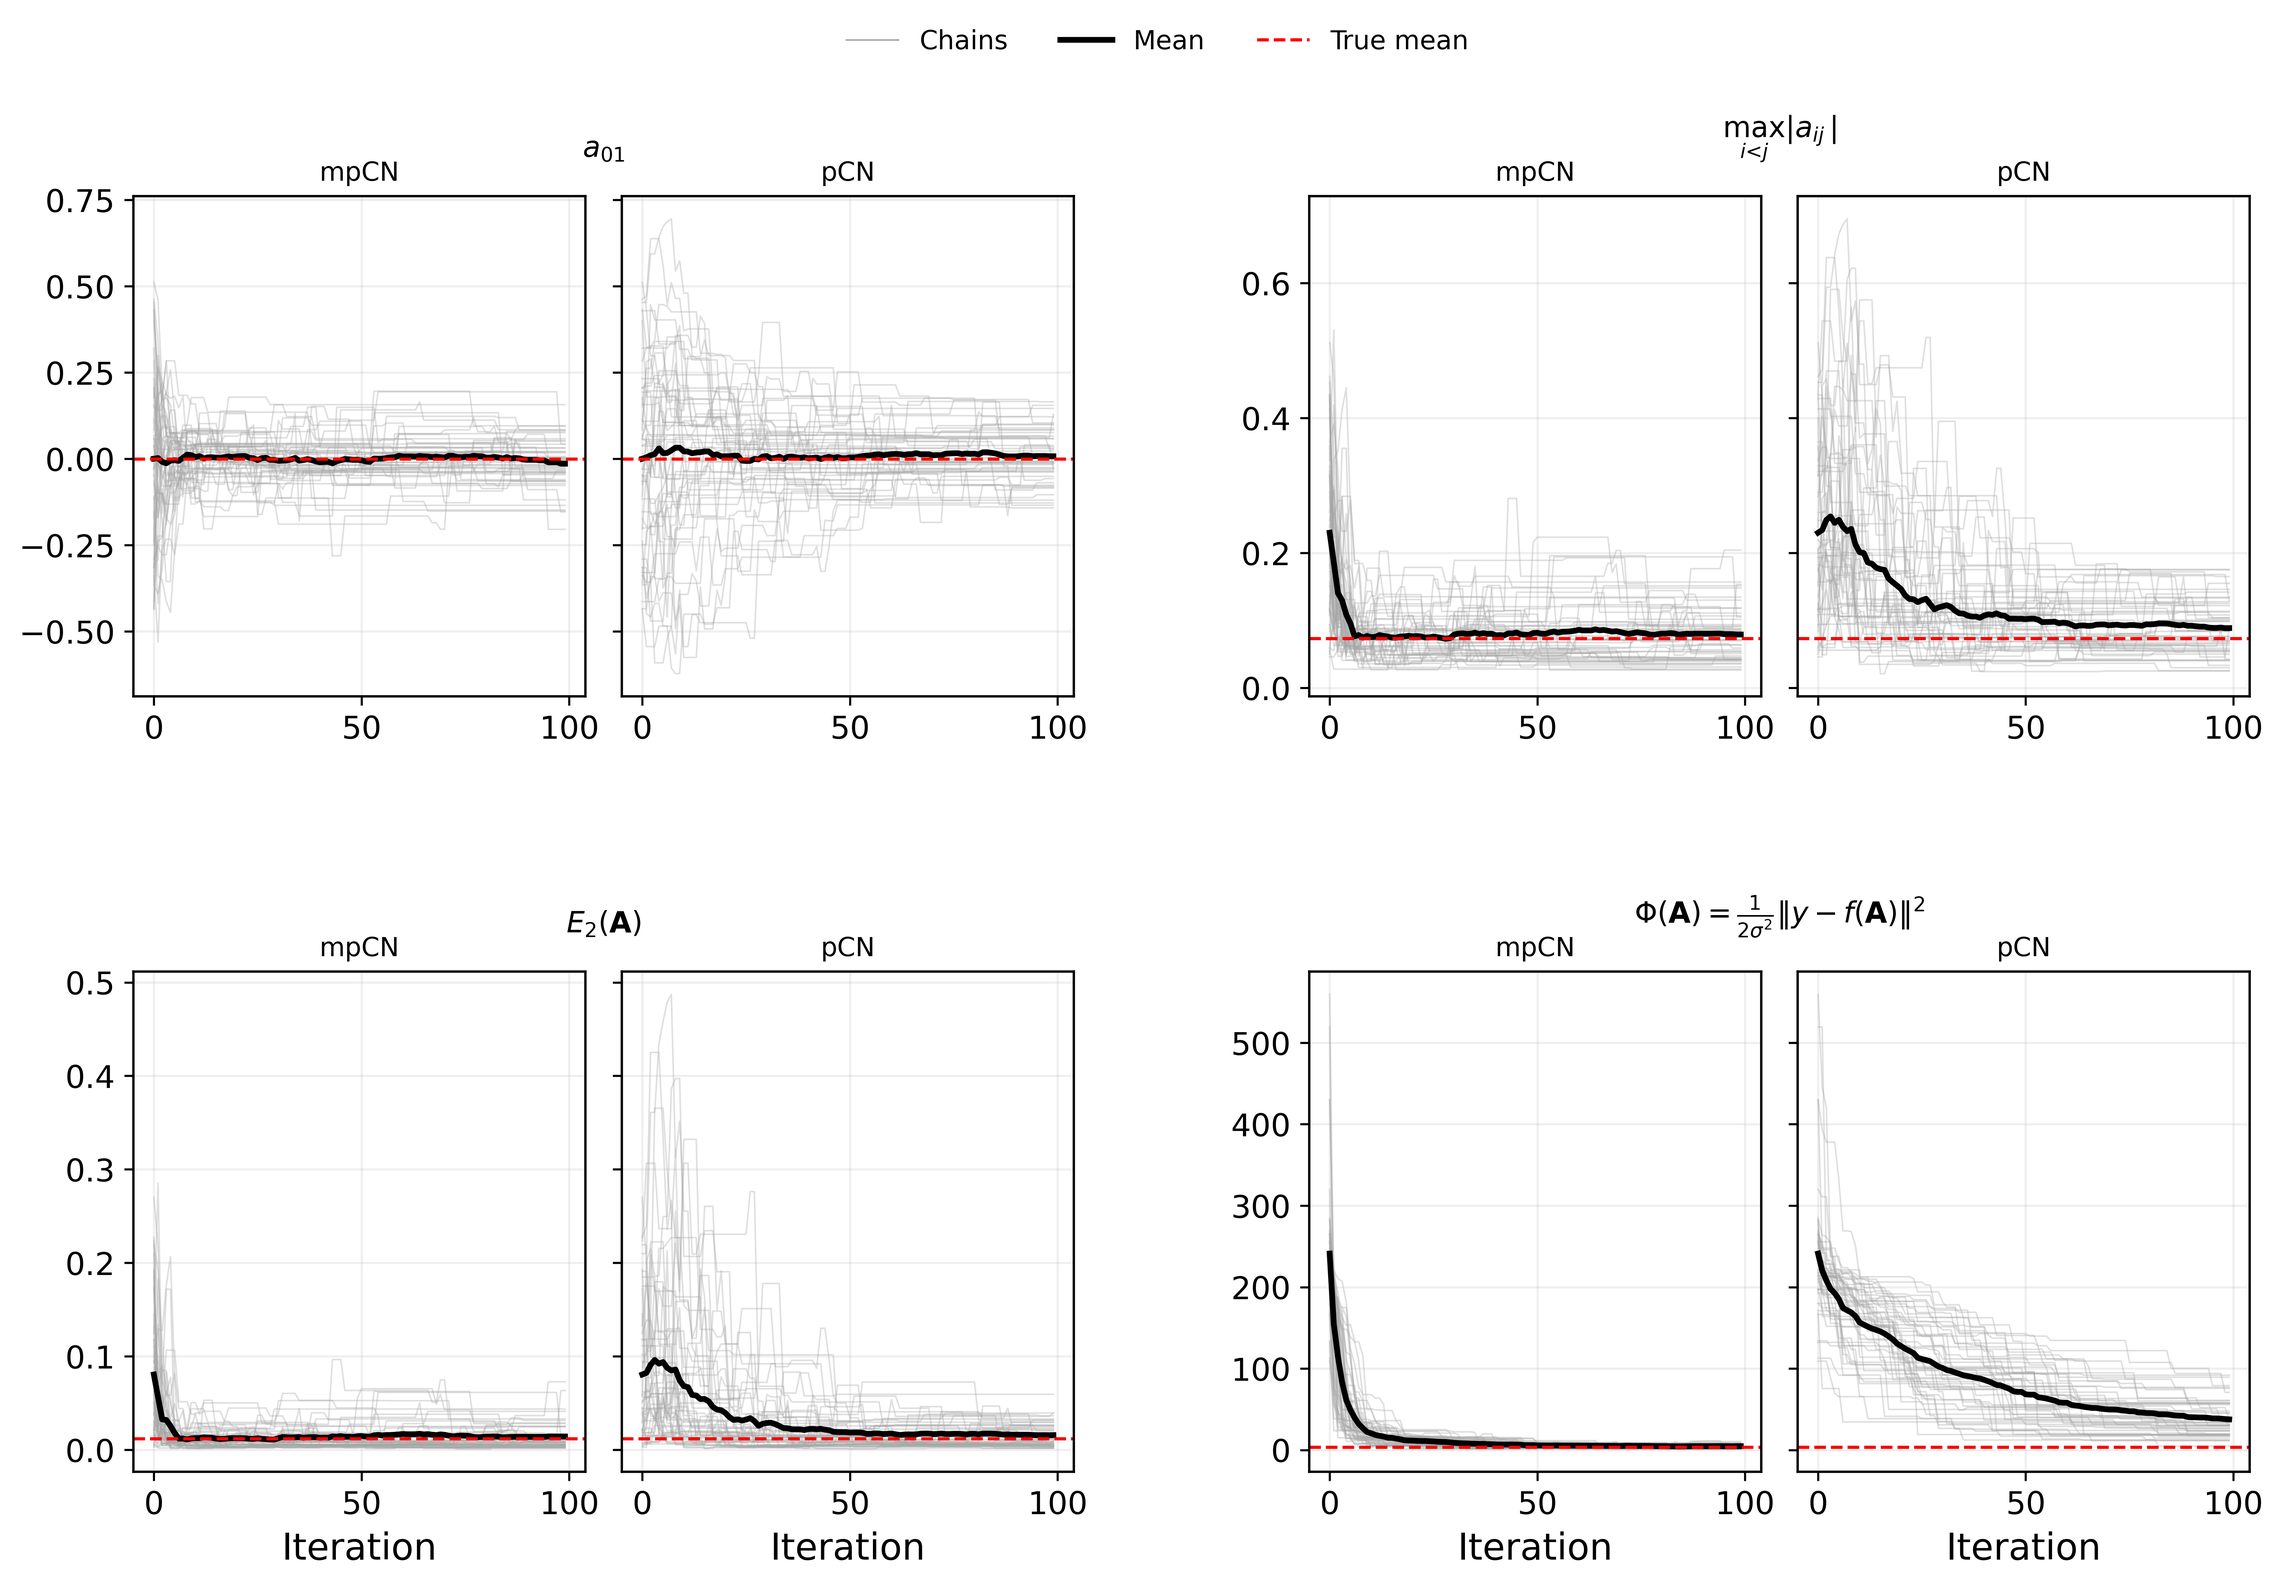
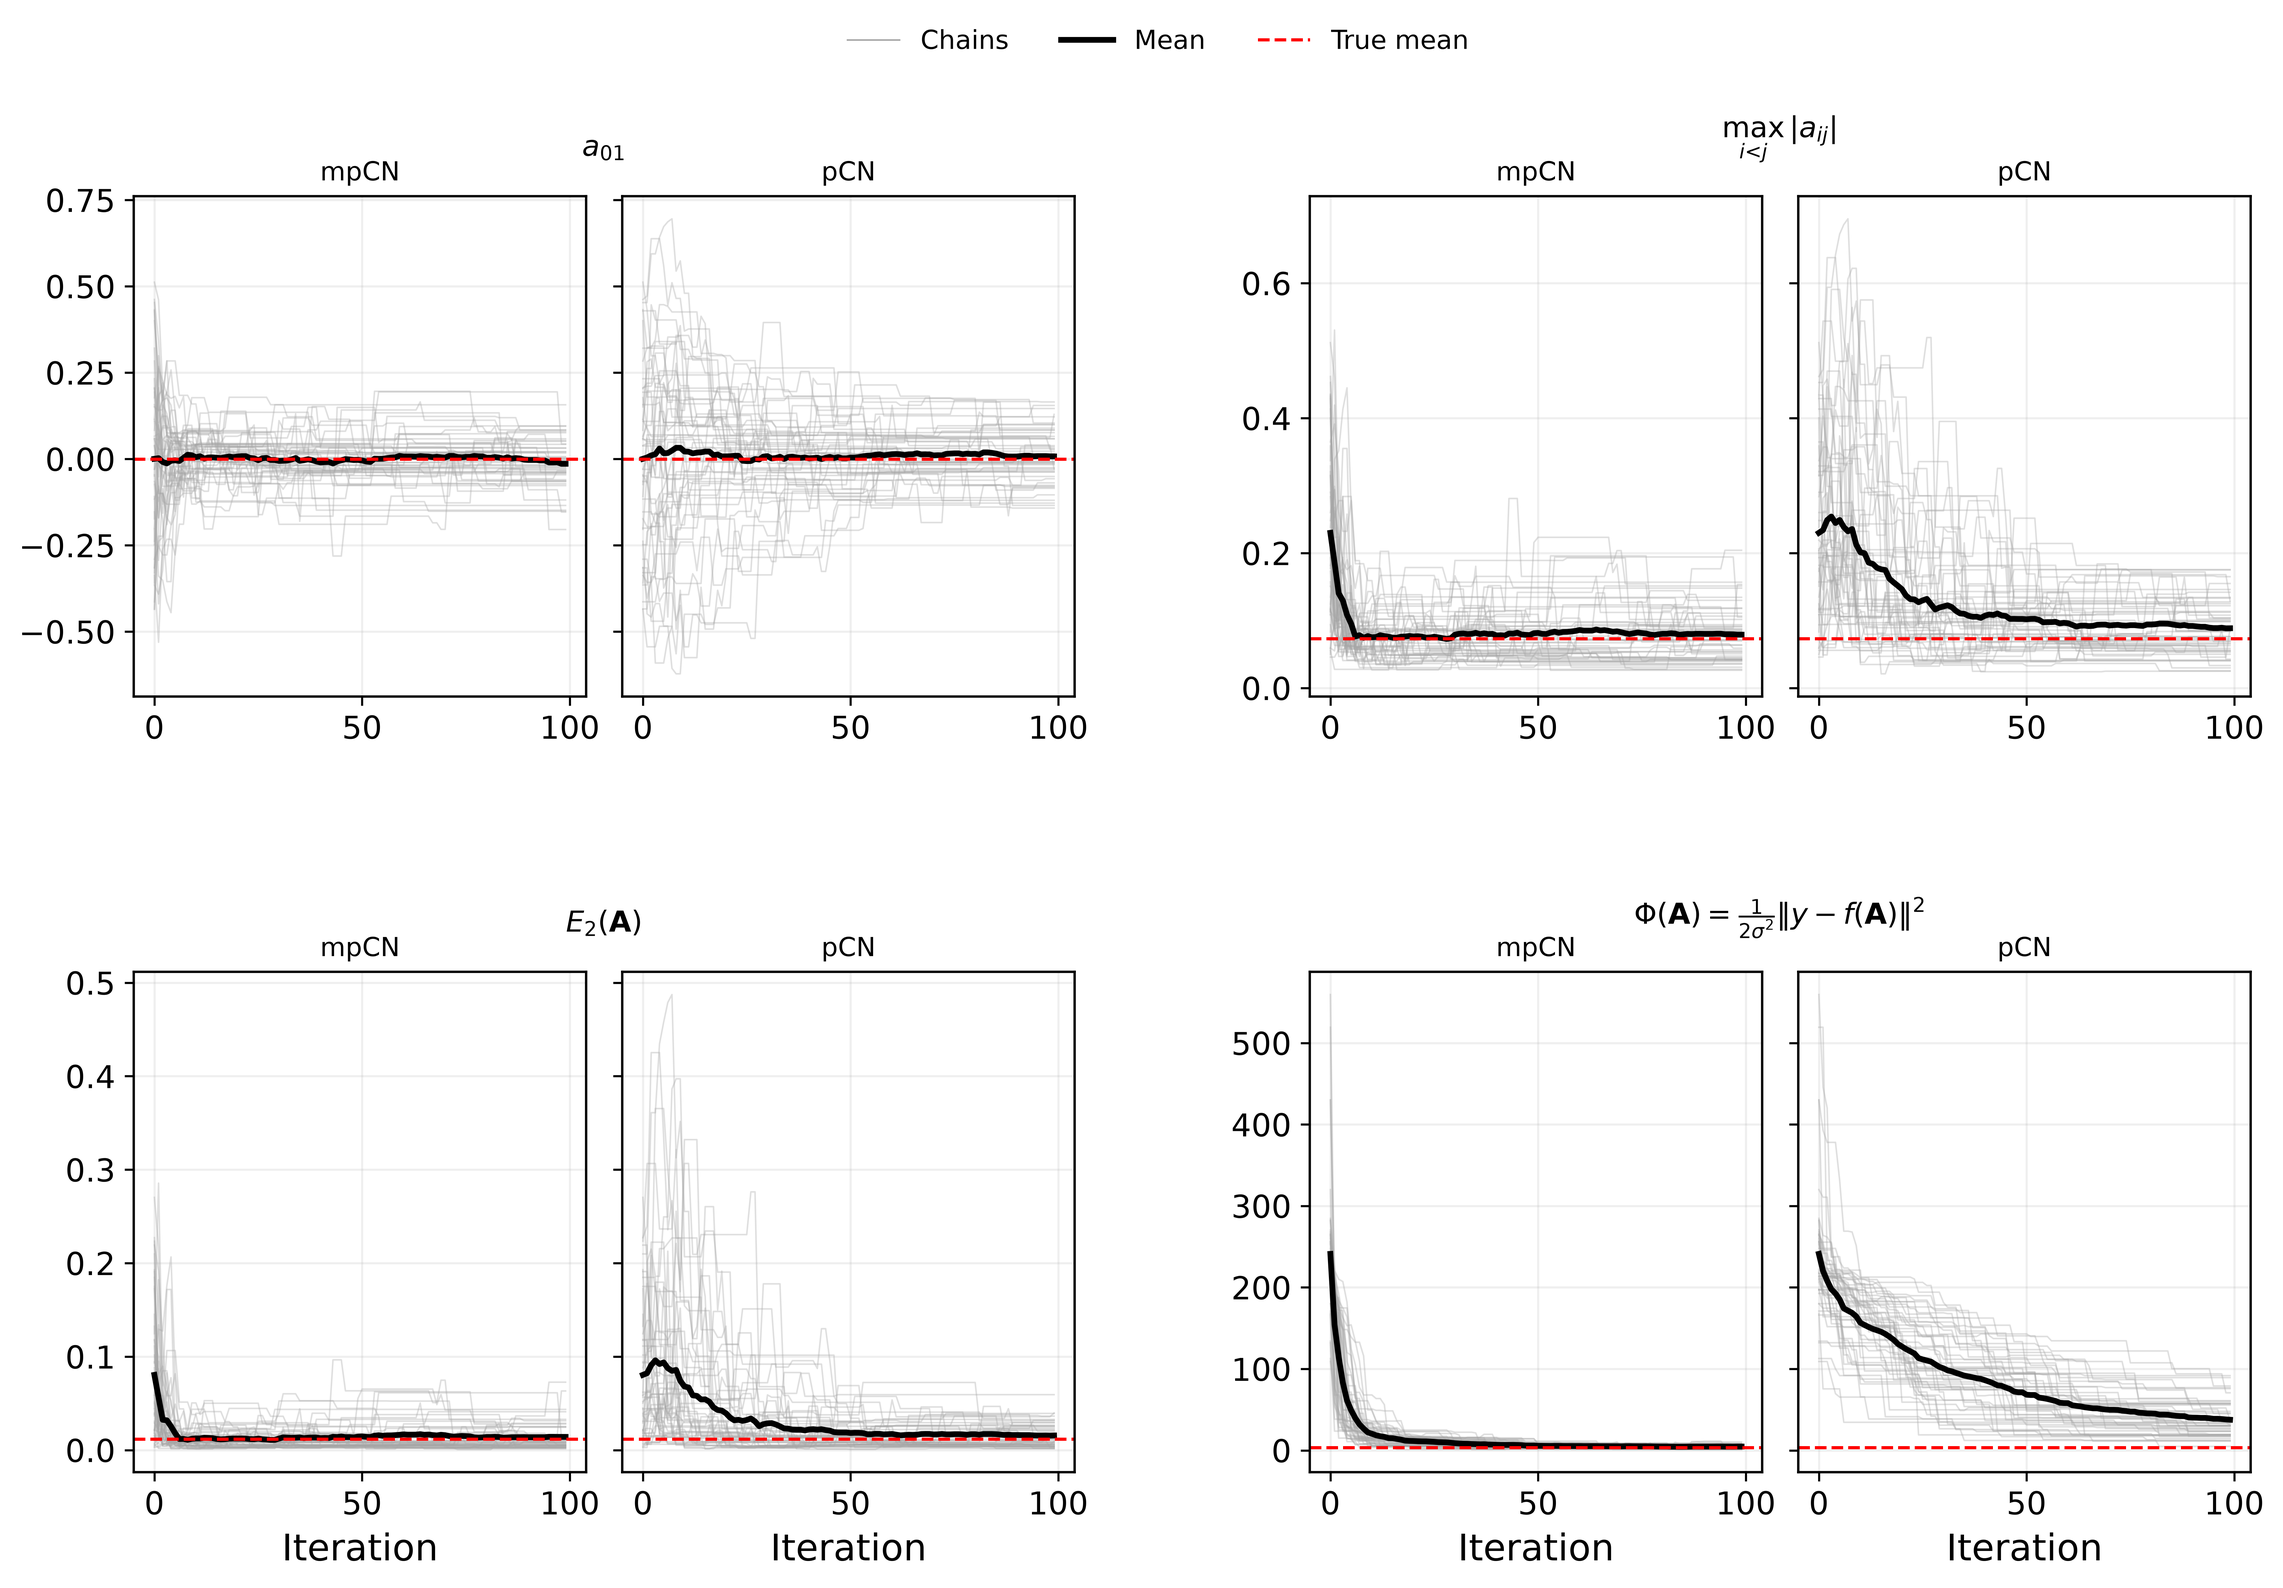
update remote

diff --git a/src/multiproposal/plotting/solute_transport_convergence.py b/src/multiproposal/plotting/solute_transport_convergence.py
@@ -214,6 +214,9 @@ def plot_solute_transport_pub_traceplots(
     max_plot_n: int = 100,
     mpcn_plot_count: int = 50,
     pcn_plot_count: int = 50,
+    mpcn_panel_title: str = "mpCN",
+    pcn_panel_title: str = "pCN",
+    output_tag: str = "mpcn_vs_pcn",
     show: bool = True,
 ):
     """Publication traceplots for mPCN vs pCN observables."""
@@ -292,7 +295,7 @@ def plot_solute_transport_pub_traceplots(
                 alpha=0.35,
             )
         ax_m.plot(mpcn_mean, linewidth=mean_linewidth, color=mean_color)
-        ax_m.set_title("mpCN", fontsize=10)
+        ax_m.set_title(mpcn_panel_title, fontsize=10)
         ax_m.grid(alpha=0.2)
 
         for chain_idx in range(pcn_obs.shape[0]):
@@ -303,7 +306,7 @@ def plot_solute_transport_pub_traceplots(
                 alpha=0.35,
             )
         ax_p.plot(pcn_mean, linewidth=mean_linewidth, color=mean_color)
-        ax_p.set_title("pCN", fontsize=10)
+        ax_p.set_title(pcn_panel_title, fontsize=10)
         ax_p.grid(alpha=0.2)
         ax_p.tick_params(labelleft=False)
 
@@ -328,7 +331,7 @@ def plot_solute_transport_pub_traceplots(
 
     fig.tight_layout(rect=(0.0, 0.0, 1.0, 0.94))
     fig.savefig(
-        reports_dir / f"solute_transport_mpcn_vs_pcn_traceplots_pub_best4observables_rho{rho_tag}.png",
+        reports_dir / f"solute_transport_{output_tag}_traceplots_pub_best4observables_rho{rho_tag}.png",
         bbox_inches="tight",
     )
 
@@ -350,6 +353,9 @@ def plot_solute_transport_pub_traceplots_ep(
     max_plot_n: int = 100,
     mpcn_plot_count: int = 50,
     max_ep_groups: int = 50,
+    mpcn_panel_title: str = "mpCN",
+    ep_panel_title: str = r"Embarrassingly Parallel pCN",
+    output_tag: str = "mpcn_vs_pcn",
     show: bool = True,
 ):
     """Publication traceplots for mPCN vs EP-replicate pCN observables."""
@@ -444,7 +450,7 @@ def plot_solute_transport_pub_traceplots_ep(
                 alpha=0.35,
             )
         ax_m.plot(mpcn_mean, linewidth=mean_linewidth, color=mean_color)
-        ax_m.set_title("mpCN", fontsize=10)
+        ax_m.set_title(mpcn_panel_title, fontsize=10)
         ax_m.grid(alpha=0.2)
 
         for chain_idx in range(pcn_obs_flat.shape[0]):
@@ -455,7 +461,7 @@ def plot_solute_transport_pub_traceplots_ep(
                 alpha=0.2,
             )
         ax_p.plot(pcn_mean, linewidth=mean_linewidth, color=mean_color)
-        ax_p.set_title(r"Embarrassingly Parallel pCN", fontsize=10)
+        ax_p.set_title(ep_panel_title, fontsize=10)
         ax_p.grid(alpha=0.2)
         ax_p.tick_params(labelleft=False)
 
@@ -480,7 +486,7 @@ def plot_solute_transport_pub_traceplots_ep(
 
     fig.tight_layout(rect=(0.0, 0.0, 1.0, 0.94))
     fig.savefig(
-        reports_dir / f"solute_transport_mpcn_vs_pcn_traceplots_pub_ep_replicates_rho{rho_tag}.png",
+        reports_dir / f"solute_transport_{output_tag}_traceplots_pub_ep_replicates_rho{rho_tag}.png",
         bbox_inches="tight",
     )
 
@@ -497,6 +503,10 @@ def plot_solute_transport_running_mse(
     rho_tag: str,
     effective_P: int,
     max_xlim: int = 20,
+    mpcn_label: str = "mPCN",
+    pcn_label: str = "pCN",
+    ep_label: Optional[str] = None,
+    output_tag: str = "mpcn_vs_pcn",
     show: bool = True,
 ):
     """Plot running-MSE curves for selected observables."""
@@ -531,6 +541,9 @@ def plot_solute_transport_running_mse(
         "linewidth": 1.3,
     }
 
+    if ep_label is None:
+        ep_label = f"EP ($p$={effective_P})"
+
     n_obs = len(plot_defs)
     if n_obs < 1:
         raise ValueError("No observables selected for the running-MSE plot.")
@@ -545,10 +558,10 @@ def plot_solute_transport_running_mse(
         row_idx = idx // 2
         col_idx = idx % 2
         ax = axes[row_idx, col_idx]
-        ax.plot(iter_grid, result["mpcn_mse"], label="mPCN", **mpcn_line_kwargs)
-        ax.plot(iter_grid, result["pcn_mse"], label="pCN", **pcn_line_kwargs)
+        ax.plot(iter_grid, result["mpcn_mse"], label=mpcn_label, **mpcn_line_kwargs)
+        ax.plot(iter_grid, result["pcn_mse"], label=pcn_label, **pcn_line_kwargs)
         if result["ep_mse"] is not None:
-            ax.plot(iter_grid, result["ep_mse"], label=f"EP ($p$={effective_P})", **ep_line_kwargs)
+            ax.plot(iter_grid, result["ep_mse"], label=ep_label, **ep_line_kwargs)
         ax.set_title(obs.label, fontsize=10)
         ax.set_ylabel("MSE")
         ax.grid(alpha=0.2)
@@ -565,7 +578,7 @@ def plot_solute_transport_running_mse(
 
     fig.tight_layout()
     fig.savefig(
-        reports_dir / f"solute_transport_mse_timeseries_observables_rho{rho_tag}.png",
+        reports_dir / f"solute_transport_{output_tag}_mse_timeseries_observables_rho{rho_tag}.png",
         bbox_inches="tight",
     )
 
